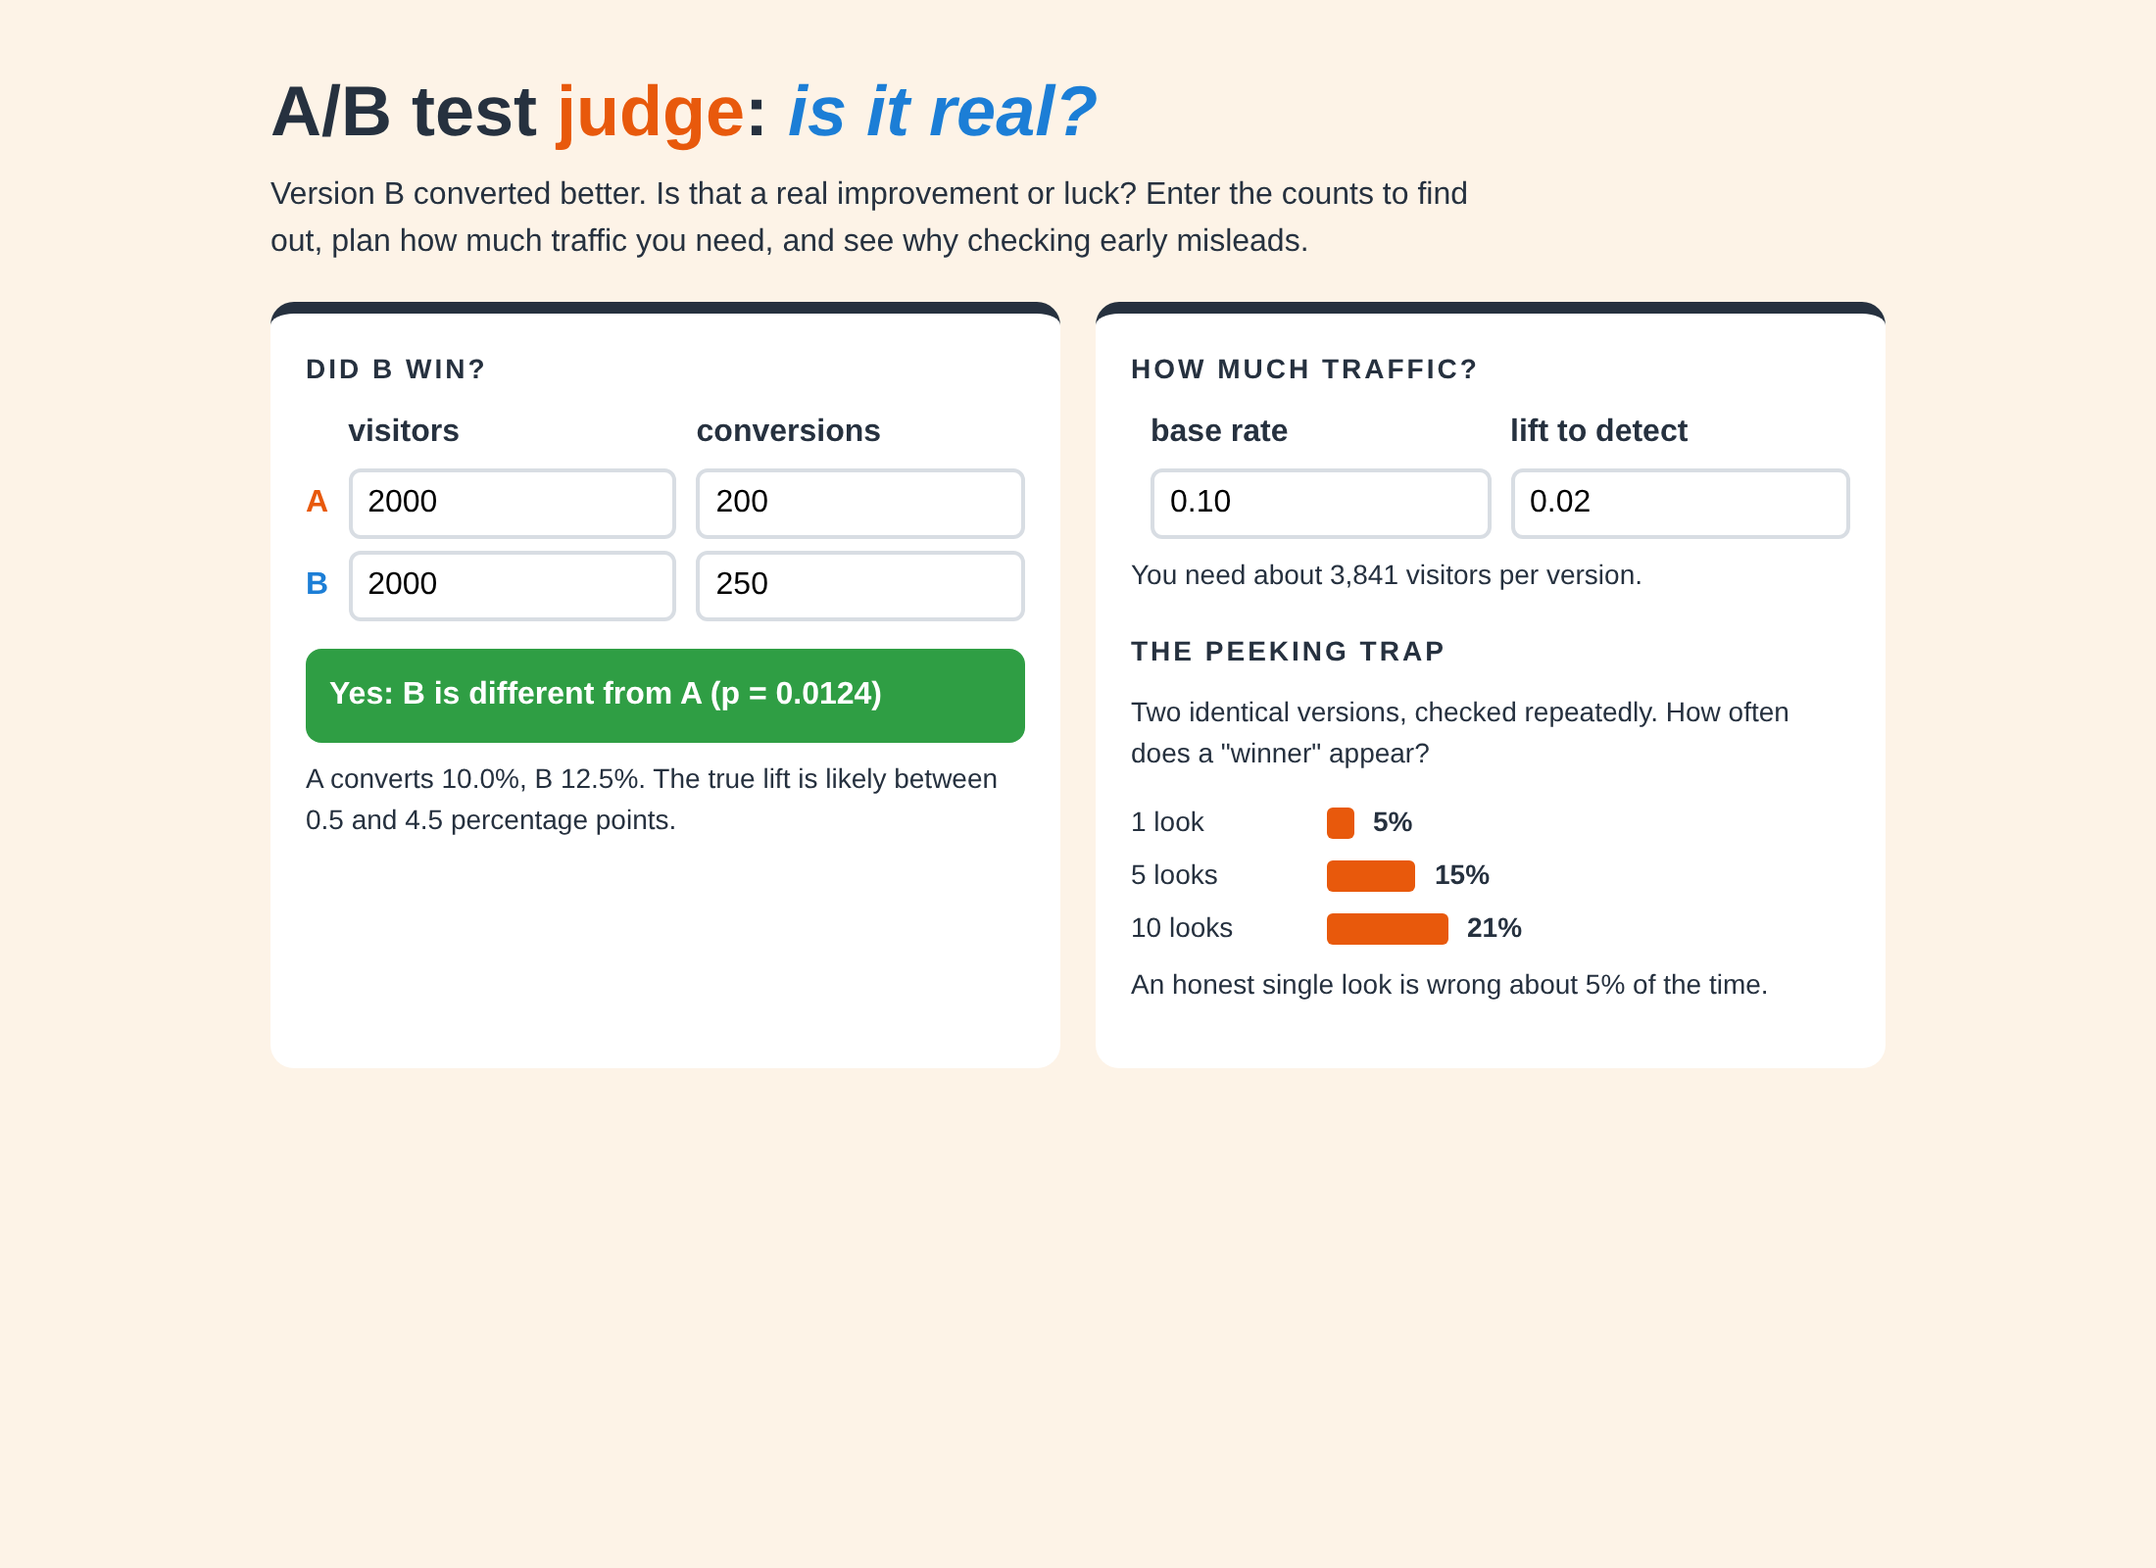
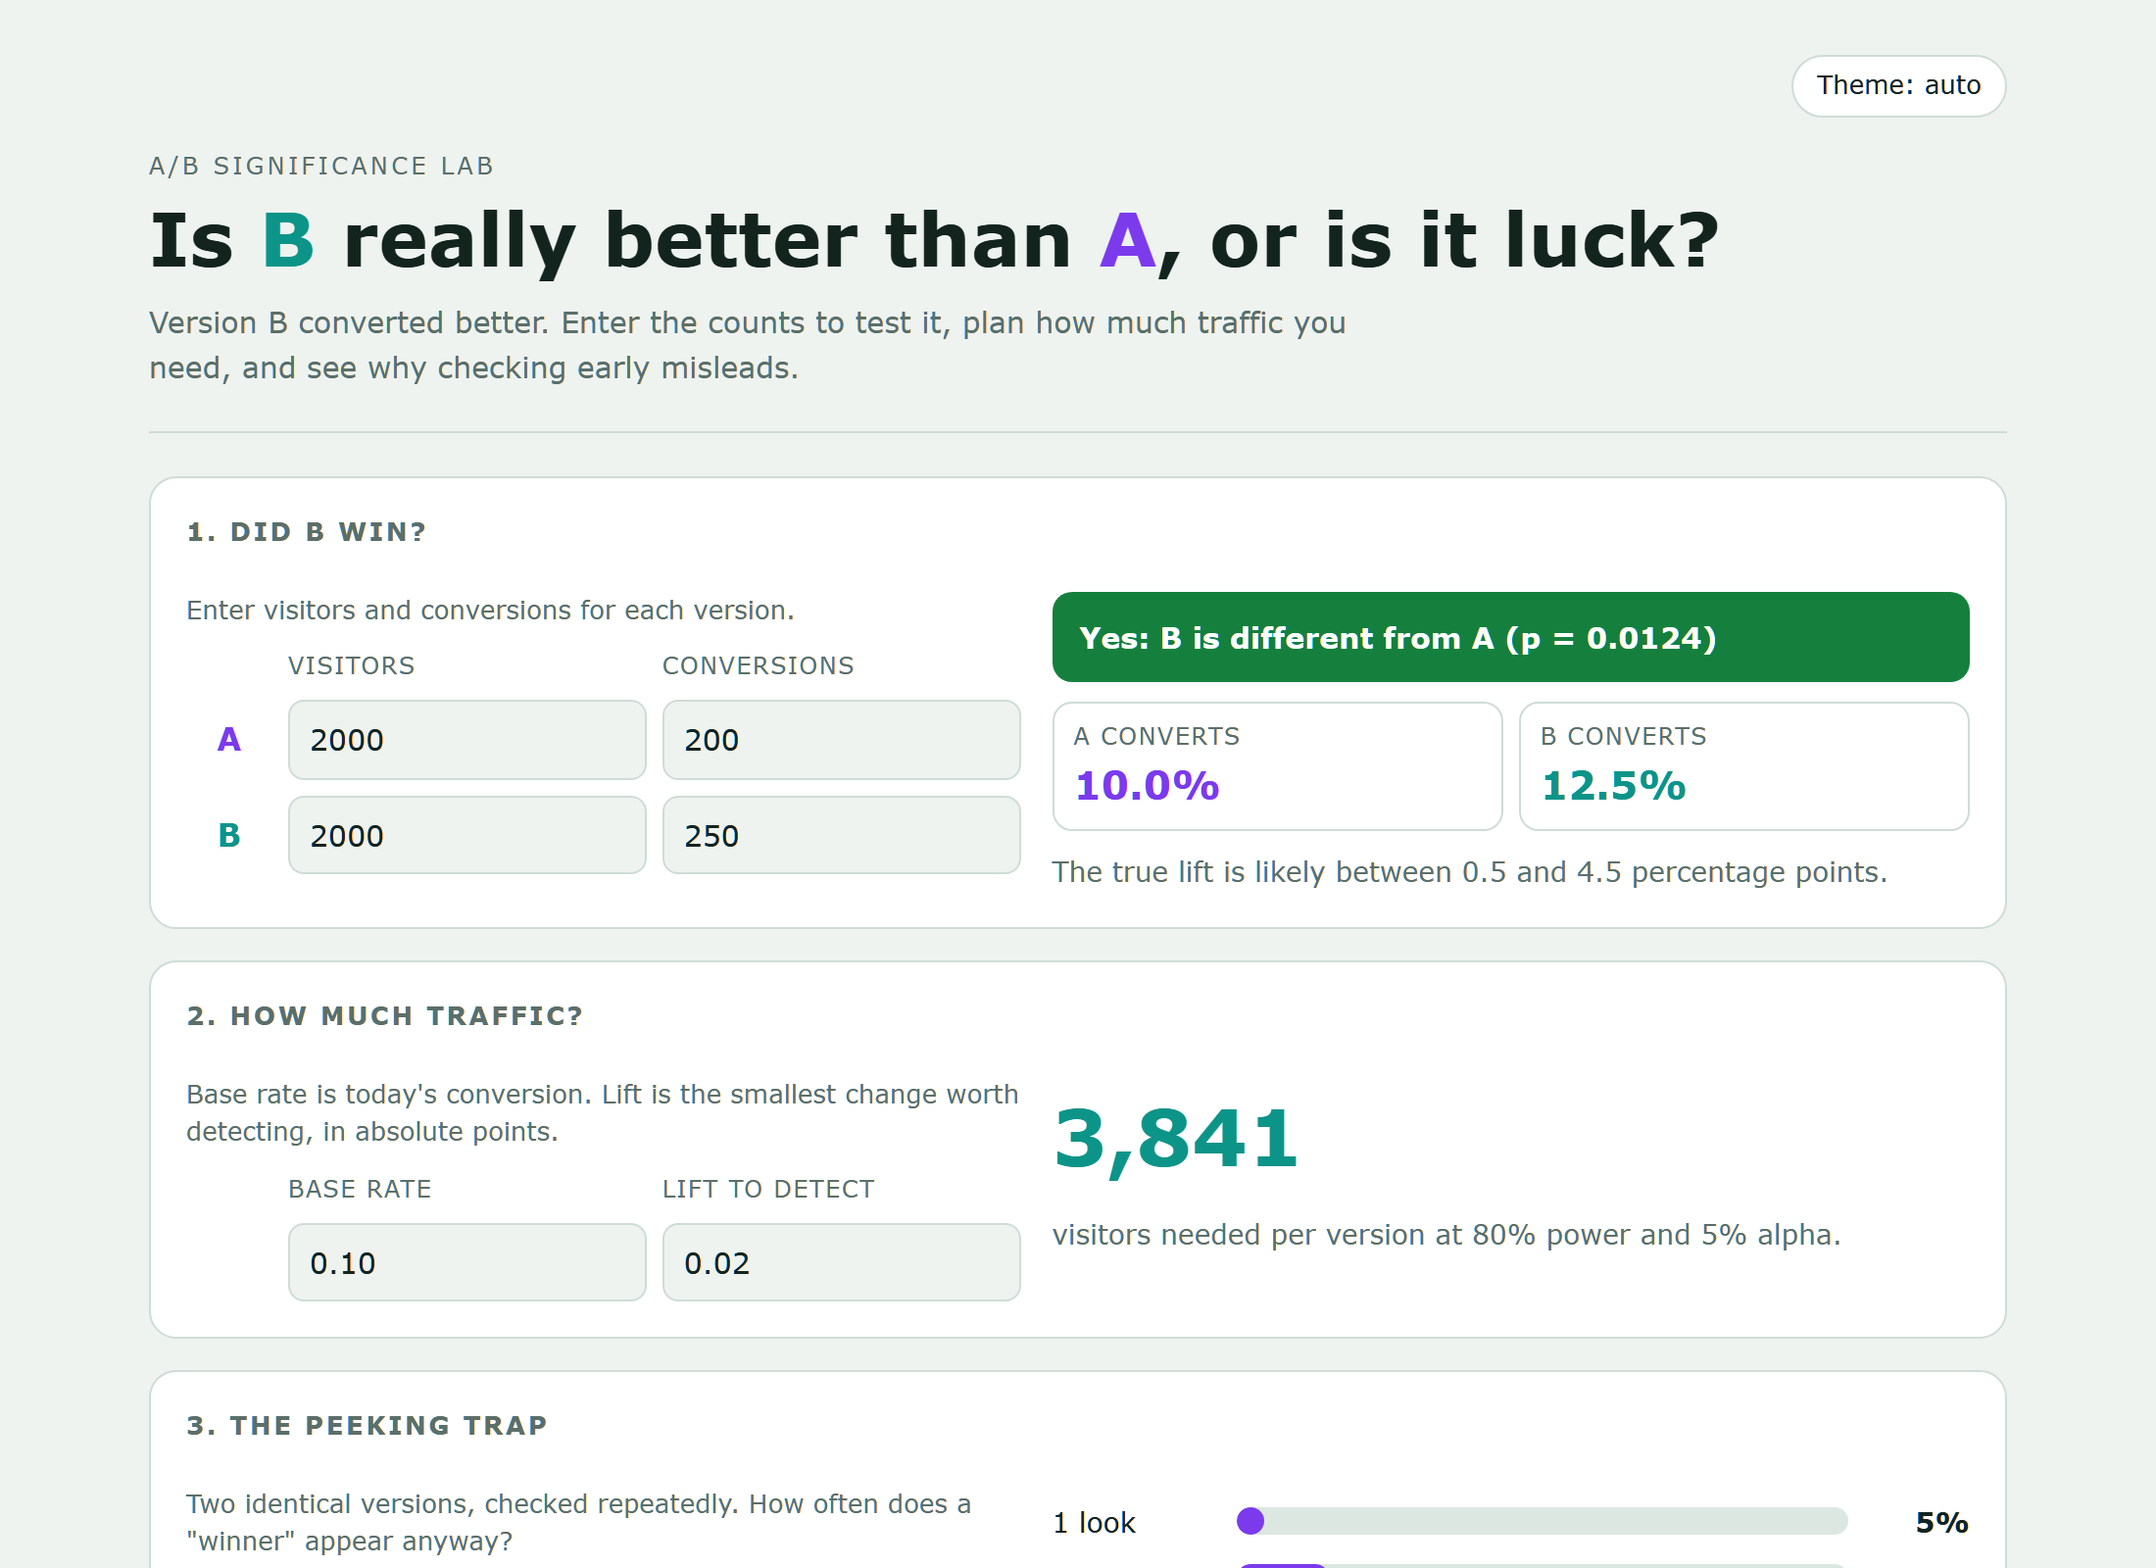
Redesign frontend: ab-test-judge

diff --git a/static/index.html b/static/index.html
@@ -1,31 +1,206 @@
-<!doctype html><html lang="en"><head><meta charset="utf-8"><meta name="viewport" content="width=device-width,initial-scale=1">
+<!doctype html>
+<html lang="en">
+<head>
+<meta charset="utf-8">
+<meta name="viewport" content="width=device-width,initial-scale=1">
 <title>A/B Test Judge</title>
 <style>
-:root{--bg:#fdf3e7;--ink:#26313f;--a:#e8590c;--b:#1c7ed6;--card:#fff;--ok:#2f9e44;--no:#868e96}
-*{box-sizing:border-box}body{margin:0;background:var(--bg);color:var(--ink);font:16px/1.5 "Optima","Candara",sans-serif}
-main{max-width:860px;margin:0 auto;padding:30px 18px;display:grid;grid-template-columns:1fr 1fr;gap:18px}header{grid-column:1/-1}
-h1{margin:0;font-size:36px}h1 b{color:var(--a)}h1 i{color:var(--b)}.sub{margin:4px 0 0;max-width:620px}
-.card{background:var(--card);border-radius:12px;padding:18px;border-top:6px solid var(--ink)}h2{margin:0 0 10px;font-size:14px;text-transform:uppercase;letter-spacing:1.5px}
-.grp{display:grid;grid-template-columns:auto 1fr 1fr;gap:6px 10px;align-items:center}input{font:inherit;width:100%;padding:4px 8px;border:2px solid #d8dde3;border-radius:6px}
-.verdict{margin-top:14px;padding:12px;border-radius:8px;color:#fff;font-weight:700}.verdict.ok{background:var(--ok)}.verdict.no{background:var(--no)}
-.small{font-size:14px;margin-top:8px}.bar{display:flex;align-items:center;gap:10px;margin:6px 0;font-size:14px}.bar div{height:16px;background:var(--a);border-radius:3px}
-@media(max-width:720px){main{grid-template-columns:1fr}}
-</style></head><body><main>
-<header><h1>A/B test <b>judge</b>: <i>is it real?</i></h1><p class="sub">Version B converted better. Is that a real improvement or luck? Enter the counts to find out, plan how much traffic you need, and see why checking early misleads.</p></header>
-<section class="card"><h2>Did B win?</h2><div class="grp"><span></span><b>visitors</b><b>conversions</b>
-<b style="color:var(--a)">A</b><input id="na" type="number" value="2000"><input id="ca" type="number" value="200">
-<b style="color:var(--b)">B</b><input id="nb" type="number" value="2000"><input id="cb" type="number" value="250"></div>
-<div class="verdict" id="v"></div><p class="small" id="d"></p></section>
-<section class="card"><h2>How much traffic?</h2><div class="grp"><span></span><b>base rate</b><b>lift to detect</b><span></span><input id="br" type="number" step="0.01" value="0.10"><input id="ml" type="number" step="0.005" value="0.02"></div>
-<p class="small" id="ss"></p>
-<h2 style="margin-top:18px">The peeking trap</h2><p class="small" style="margin-top:0">Two identical versions, checked repeatedly. How often does a "winner" appear?</p><div id="pk"></div></section>
-</main><script>
-const $=i=>document.getElementById(i);
-async function go(){const body=JSON.stringify({conv_a:+$('ca').value,n_a:+$('na').value,conv_b:+$('cb').value,n_b:+$('nb').value});
-const r=await fetch('/analyse',{method:'POST',headers:{'content-type':'application/json'},body});if(!r.ok){$('v').textContent='Check the numbers.';$('v').className='verdict no';return}
-const j=await r.json();$('v').textContent=j.significant?'Yes: B is different from A (p = '+j.p_value+')':'Not proven (p = '+j.p_value+')';$('v').className='verdict '+(j.significant?'ok':'no');
-$('d').textContent=`A converts ${(j.rate_a*100).toFixed(1)}%, B ${(j.rate_b*100).toFixed(1)}%. The true lift is likely between ${(j.ci_low*100).toFixed(1)} and ${(j.ci_high*100).toFixed(1)} percentage points.`}
-async function size(){const j=await (await fetch(`/sample-size?base_rate=${$('br').value}&min_lift=${$('ml').value}`)).json();$('ss').textContent=j.per_variant?`You need about ${j.per_variant.toLocaleString()} visitors per version.`:'Check the numbers.'}
-['na','ca','nb','cb'].forEach(i=>$(i).oninput=go);['br','ml'].forEach(i=>$(i).oninput=size);go();size();
-fetch('/peeking').then(r=>r.json()).then(d=>{$('pk').innerHTML=Object.entries(d.rates).map(([k,v])=>`<div class="bar"><span style="width:90px">${k} look${k>1?'s':''}</span><div style="width:${v*300}px"></div><b>${(v*100).toFixed(0)}%</b></div>`).join('')+'<p class="small">An honest single look is wrong about 5% of the time.</p>'});
-</script></body></html>
+:root{
+  --paper:#eef3f0;--ink:#13241f;--mute:#5b6f68;--card:#ffffff;--line:#cfdcd6;
+  --a:#7c3aed;--b:#0d9488;--ok:#15803d;--no:#64748b;--track:#dde7e2;
+}
+@media (prefers-color-scheme: dark){
+  :root:not([data-theme="light"]){
+    --paper:#0d1714;--ink:#e3efea;--mute:#93a9a1;--card:#152420;--line:#29413a;
+    --a:#a78bfa;--b:#2dd4bf;--ok:#4ade80;--no:#94a3b8;--track:#22362f;
+  }
+}
+:root[data-theme="dark"]{
+  --paper:#0d1714;--ink:#e3efea;--mute:#93a9a1;--card:#152420;--line:#29413a;
+  --a:#a78bfa;--b:#2dd4bf;--ok:#4ade80;--no:#94a3b8;--track:#22362f;
+}
+*{box-sizing:border-box}
+html{-webkit-text-size-adjust:100%}
+body{
+  margin:0;background:var(--paper);color:var(--ink);
+  font:15px/1.5 Verdana,Geneva,sans-serif;min-height:100vh;
+  overflow-wrap:anywhere;
+}
+.wrap{max-width:980px;margin:0 auto;padding:28px 16px 40px}
+header{padding:4px 0 22px;border-bottom:1px solid var(--line);margin-bottom:22px}
+.kicker{margin:0 0 6px;font-size:12px;letter-spacing:.14em;text-transform:uppercase;color:var(--mute)}
+h1{margin:0;font-size:clamp(26px,6vw,38px);line-height:1.15;font-weight:700}
+h1 .a{color:var(--a)}h1 .b{color:var(--b)}
+.lede{margin:10px 0 0;max-width:640px;color:var(--mute)}
+.band{display:grid;grid-template-columns:minmax(0,1fr) minmax(0,1.1fr);gap:16px;background:var(--card);
+  border:1px solid var(--line);border-radius:14px;padding:18px;margin-bottom:16px}
+.band > h2{grid-column:1/-1;margin:0 0 4px;font-size:13px;letter-spacing:.1em;text-transform:uppercase;color:var(--mute)}
+.step{font-size:13px;color:var(--mute);margin:0 0 10px}
+.field-grid{display:grid;grid-template-columns:44px minmax(0,1fr) minmax(0,1fr);gap:8px;align-items:center}
+.field-grid .hd{font-size:12px;color:var(--mute);text-transform:uppercase;letter-spacing:.06em}
+.tag{font-weight:700;font-size:16px;text-align:center}
+.tag.a{color:var(--a)}.tag.b{color:var(--b)}
+input[type=number]{
+  font:inherit;font-variant-numeric:tabular-nums;width:100%;min-width:0;padding:8px 10px;
+  color:var(--ink);background:var(--paper);border:1px solid var(--line);border-radius:8px;
+}
+input[type=number]:focus{outline:2px solid var(--b);outline-offset:1px}
+.result{display:flex;flex-direction:column;gap:10px;min-width:0}
+.verdict{border-radius:10px;padding:12px 14px;font-weight:700;color:#fff;background:var(--no)}
+.verdict.ok{background:var(--ok)}
+.rates{display:grid;grid-template-columns:1fr 1fr;gap:8px}
+.rate{border:1px solid var(--line);border-radius:10px;padding:8px 10px}
+.rate span{display:block;font-size:12px;color:var(--mute);text-transform:uppercase;letter-spacing:.06em}
+.rate b{font-size:20px;font-variant-numeric:tabular-nums}
+.rate.a b{color:var(--a)}.rate.b b{color:var(--b)}
+.meter{position:relative;height:10px;border-radius:5px;background:var(--track);margin-top:4px}
+.meter i{position:absolute;top:0;bottom:0;border-radius:5px;background:var(--b);opacity:.55}
+.meter::after{content:"";position:absolute;left:50%;top:-4px;bottom:-4px;width:2px;background:var(--ink);opacity:.5}
+.scale{display:flex;justify-content:space-between;font-size:12px;color:var(--mute);font-variant-numeric:tabular-nums}
+.note{margin:0;font-size:14px;color:var(--mute)}
+.big{font-size:clamp(28px,7vw,40px);font-weight:700;font-variant-numeric:tabular-nums;color:var(--b);margin:0}
+.peek-row{display:grid;grid-template-columns:84px minmax(0,1fr) 52px;gap:10px;align-items:center;margin:8px 0;font-size:14px}
+.peek-row .bar{height:14px;border-radius:7px;background:var(--a);min-width:2px}
+.peek-row .track{background:var(--track);border-radius:7px;overflow:hidden}
+.peek-row b{text-align:right;font-variant-numeric:tabular-nums}
+.toolbar{display:flex;justify-content:flex-end;margin:0 0 12px}
+.toggle{font:inherit;font-size:13px;color:var(--ink);background:var(--card);border:1px solid var(--line);border-radius:999px;padding:5px 12px;cursor:pointer}
+footer{margin-top:24px;font-size:13px;color:var(--mute)}
+@media (max-width:720px){
+  .band{grid-template-columns:1fr;padding:14px}
+}
+</style>
+</head>
+<body>
+<div class="wrap">
+  <div class="toolbar"><button class="toggle" id="theme" type="button" aria-label="Toggle colour theme">Theme: auto</button></div>
+
+  <header>
+    <p class="kicker">A/B significance lab</p>
+    <h1>Is <span class="b">B</span> really better than <span class="a">A</span>, or is it luck?</h1>
+    <p class="lede">Version B converted better. Enter the counts to test it, plan how much traffic you need, and see why checking early misleads.</p>
+  </header>
+
+  <section class="band" aria-labelledby="h-test">
+    <h2 id="h-test">1. Did B win?</h2>
+    <div>
+      <p class="step">Enter visitors and conversions for each version.</p>
+      <div class="field-grid">
+        <span></span><span class="hd">Visitors</span><span class="hd">Conversions</span>
+        <span class="tag a">A</span><input id="na" type="number" min="1" value="2000" aria-label="Visitors for A"><input id="ca" type="number" min="0" value="200" aria-label="Conversions for A">
+        <span class="tag b">B</span><input id="nb" type="number" min="1" value="2000" aria-label="Visitors for B"><input id="cb" type="number" min="0" value="250" aria-label="Conversions for B">
+      </div>
+    </div>
+    <div class="result">
+      <div class="verdict" id="v" role="status" aria-live="polite"></div>
+      <div class="rates" id="rates"></div>
+      <p class="note" id="d"></p>
+    </div>
+  </section>
+
+  <section class="band" aria-labelledby="h-size">
+    <h2 id="h-size">2. How much traffic?</h2>
+    <div>
+      <p class="step">Base rate is today's conversion. Lift is the smallest change worth detecting, in absolute points.</p>
+      <div class="field-grid" style="grid-template-columns:44px minmax(0,1fr) minmax(0,1fr)">
+        <span></span><span class="hd">Base rate</span><span class="hd">Lift to detect</span>
+        <span></span><input id="br" type="number" step="0.01" min="0.01" max="0.98" value="0.10" aria-label="Base rate"><input id="ml" type="number" step="0.005" min="0.001" value="0.02" aria-label="Lift to detect">
+      </div>
+    </div>
+    <div class="result">
+      <p class="big" id="ss-big"></p>
+      <p class="note" id="ss">Visitors needed per version at 80% power and 5% alpha.</p>
+    </div>
+  </section>
+
+  <section class="band" aria-labelledby="h-peek">
+    <h2 id="h-peek">3. The peeking trap</h2>
+    <div>
+      <p class="step">Two identical versions, checked repeatedly. How often does a "winner" appear anyway?</p>
+    </div>
+    <div class="result">
+      <div id="pk"><p class="note">Loading simulation...</p></div>
+    </div>
+  </section>
+
+  <footer>All numbers are your inputs or simulated data.</footer>
+</div>
+
+<script>
+const $ = id => document.getElementById(id);
+const esc = s => String(s).replace(/[&<>"']/g, c => ({'&':'&amp;','<':'&lt;','>':'&gt;','"':'&quot;',"'":'&#39;'}[c]));
+
+/* Theme toggle: auto -> light -> dark -> auto. Stored per viewer, failure-safe. */
+const THEMES = ['auto', 'light', 'dark'];
+function applyTheme(t){
+  if (t === 'auto') document.documentElement.removeAttribute('data-theme');
+  else document.documentElement.setAttribute('data-theme', t);
+  $('theme').textContent = 'Theme: ' + t;
+}
+let theme = 'auto';
+try { theme = localStorage.getItem('abjudge-theme') || 'auto'; } catch (e) {}
+if (!THEMES.includes(theme)) theme = 'auto';
+applyTheme(theme);
+$('theme').onclick = () => {
+  theme = THEMES[(THEMES.indexOf(theme) + 1) % THEMES.length];
+  applyTheme(theme);
+  try { localStorage.setItem('abjudge-theme', theme); } catch (e) {}
+};
+
+async function go(){
+  const body = JSON.stringify({
+    conv_a: +$('ca').value, n_a: +$('na').value,
+    conv_b: +$('cb').value, n_b: +$('nb').value
+  });
+  const r = await fetch('/analyse', {method: 'POST', headers: {'content-type': 'application/json'}, body});
+  if (!r.ok) {
+    $('v').textContent = 'Check the numbers: conversions cannot exceed visitors.';
+    $('v').className = 'verdict';
+    $('rates').innerHTML = '';
+    $('d').textContent = '';
+    return;
+  }
+  const j = await r.json();
+  $('v').textContent = j.significant
+    ? 'Yes: B is different from A (p = ' + j.p_value + ')'
+    : 'Not proven (p = ' + j.p_value + ')';
+  $('v').className = 'verdict' + (j.significant ? ' ok' : '');
+  $('rates').innerHTML =
+    '<div class="rate a"><span>A converts</span><b>' + (j.rate_a * 100).toFixed(1) + '%</b></div>' +
+    '<div class="rate b"><span>B converts</span><b>' + (j.rate_b * 100).toFixed(1) + '%</b></div>';
+  $('d').textContent = 'The true lift is likely between ' + (j.ci_low * 100).toFixed(1) +
+    ' and ' + (j.ci_high * 100).toFixed(1) + ' percentage points.';
+}
+
+async function size(){
+  const q = new URLSearchParams({base_rate: $('br').value, min_lift: $('ml').value});
+  let j = {};
+  try { j = await (await fetch('/sample-size?' + q.toString())).json(); } catch (e) {}
+  if (j.per_variant) {
+    $('ss-big').textContent = j.per_variant.toLocaleString();
+    $('ss').textContent = 'visitors needed per version at 80% power and 5% alpha.';
+  } else {
+    $('ss-big').textContent = '';
+    $('ss').textContent = 'Check the numbers: base rate + lift must stay below 100%.';
+  }
+}
+
+function renderPeeking(d){
+  const rows = Object.entries(d.rates).map(([k, v]) => {
+    const pct = Math.round(v * 100);
+    const w = Math.min(100, Math.max(1, v * 100));
+    return '<div class="peek-row"><span>' + esc(k) + ' look' + (+k > 1 ? 's' : '') + '</span>' +
+      '<div class="track"><div class="bar" style="width:' + w + '%"></div></div><b>' + pct + '%</b></div>';
+  }).join('');
+  $('pk').innerHTML = rows + '<p class="note">An honest single look is wrong about 5% of the time.</p>';
+}
+
+['na', 'ca', 'nb', 'cb'].forEach(i => $(i).oninput = go);
+['br', 'ml'].forEach(i => $(i).oninput = size);
+go();
+size();
+fetch('/peeking').then(r => r.json()).then(renderPeeking)
+  .catch(() => { $('pk').innerHTML = '<p class="note">Simulation unavailable right now.</p>'; });
+</script>
+</body>
+</html>
